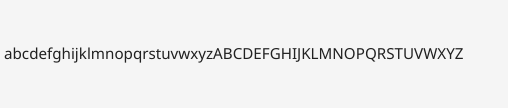
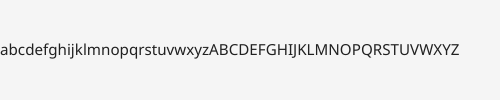
Disable window padding

Changed region(s): [[0.0, 0.42, 0.93, 0.6]]

diff --git a/canvas/text_test.go b/canvas/text_test.go
@@ -110,7 +110,8 @@ func TestText_Layout(t *testing.T) {
 			text.Alignment = tt.align
 
 			window := test.NewWindow(text)
-			window.Resize(text.MinSize().Max(tt.size).Add(fyne.NewSize(2*theme.Padding(), 2*theme.Padding())))
+			window.SetPadded(false)
+			window.Resize(text.MinSize().Max(tt.size))
 
 			test.AssertImageMatches(t, "text/layout_"+name+".png", window.Canvas().Capture())
 
